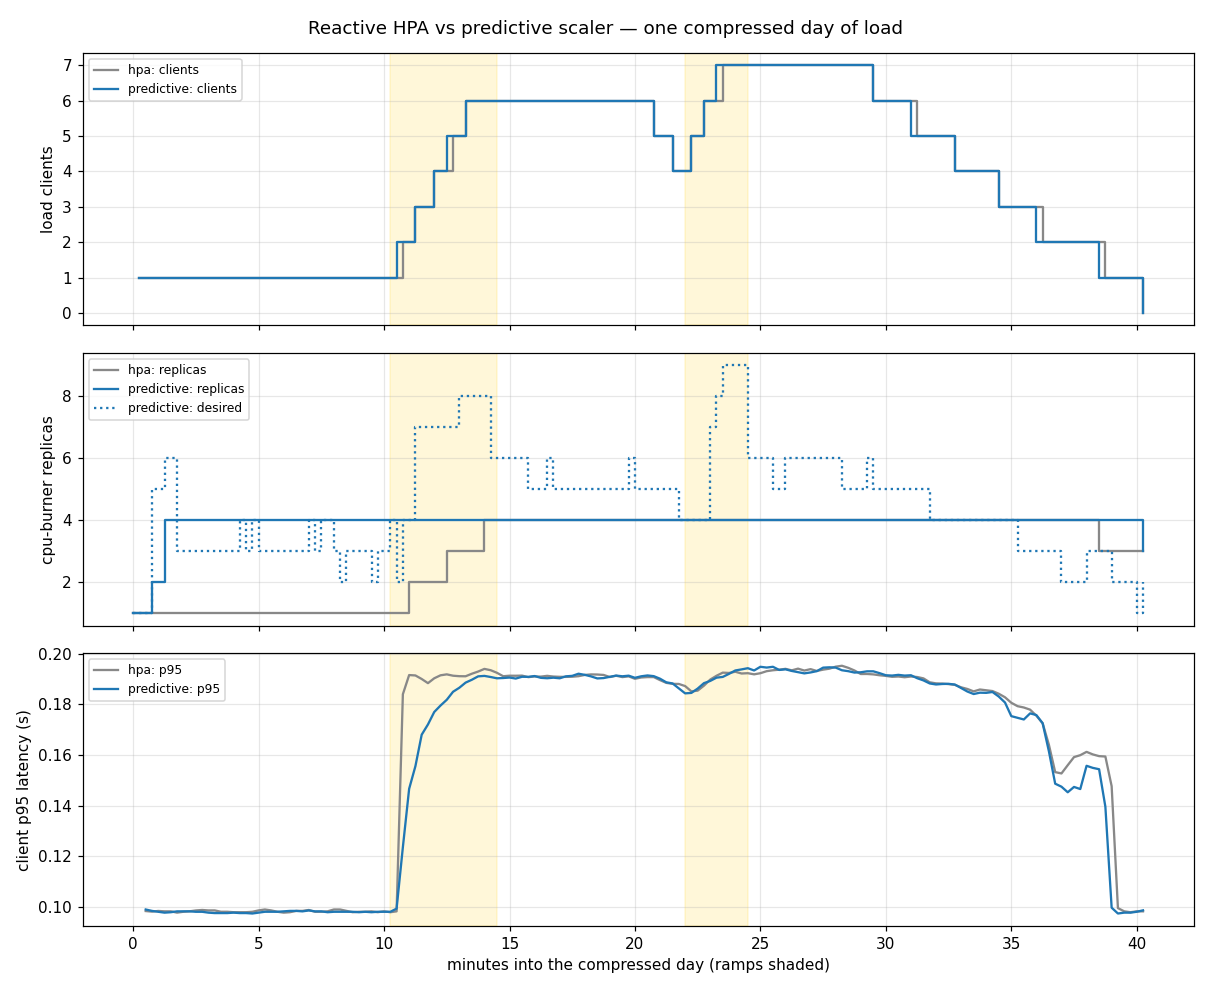
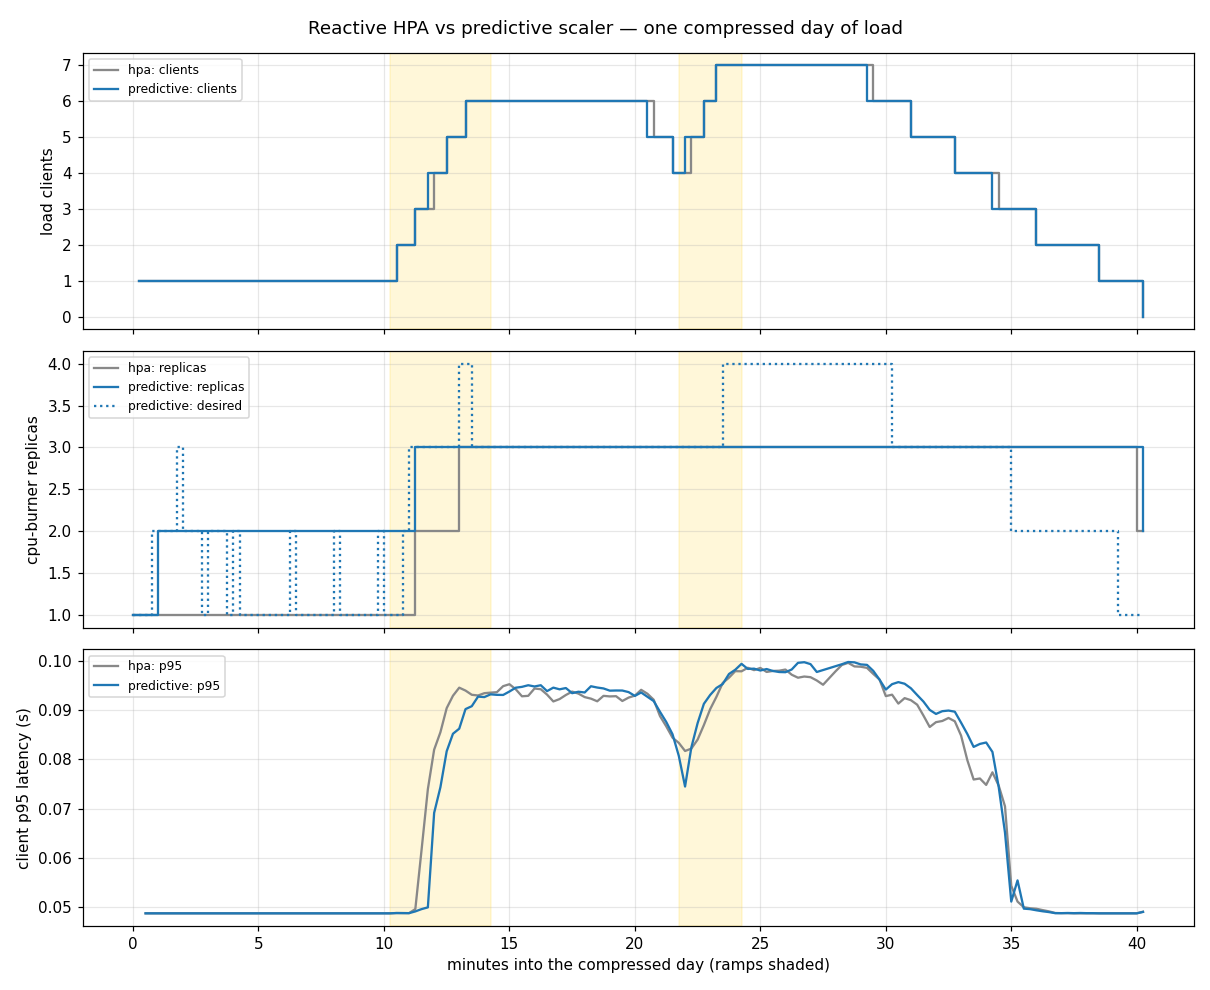
bench: results from 1795d9d (2026-10-28)

diff --git a/docs/benchmark.md b/docs/benchmark.md
@@ -1,27 +1,31 @@
 # Benchmark: predictive scaler vs reactive HPA
 
-_Generated by `bench/report.py` from a run of `.github/workflows/benchmark.yml` (commit `27b0f28`, 2026-10-28); do not edit by hand. How it is measured: [bench/README.md](../bench/README.md)._
+_Generated by `bench/report.py` from a run of `.github/workflows/benchmark.yml` (commit `7159ad6`, 2026-10-28); do not edit by hand. How it is measured: [bench/README.md](../bench/README.md)._
 
-Same kind cluster, same cpu-burner workload (500m CPU per replica, up to 6 replicas), same compressed day of load (40 min per run): quiet night, sharp ramp at 06:00, lunch dip, second ramp at 13:00, evening decline. Run A scales with a plain CPU HPA at 70%; run B with the KEDA predictive scaler (`mode=max`, `forecastAggregation=max`, target 0.35 cores per replica, 30 s step) on a model trained on the warm-up days of the same pattern.
+Same kind cluster, same cpu-burner workload (500m CPU per replica, up to 4 replicas), same compressed day of load (40 min per run): quiet night, sharp ramp at 06:00, lunch dip, second ramp at 13:00, evening decline. Run A scales with a plain CPU HPA at 70%; run B with the KEDA predictive scaler (`mode=max`, `forecastAggregation=max`, target 0.35 cores per replica, 30 s step) on a model trained on the warm-up days of the same pattern.
 
 | Metric | A: reactive HPA | B: predictive | B vs A |
 |---|---|---|---|
-| p95 latency during ramps (mean of 1-min p95) | 184 ms | 176 ms | (−4% better) |
-| p95 latency during ramps (worst minute) | 194 ms | 194 ms | (+0% worse) |
-| p95 latency over the day (mean of 1-min p95) | 161 ms | 159 ms | (−2% better) |
+| p95 latency during ramps (mean of 1-min p95) | 82 ms | 78 ms | (−5% better) |
+| p95 latency during ramps (worst minute) | 99 ms | 99 ms | (+1% worse) |
+| p95 latency over the day (mean of 1-min p95) | 74 ms | 74 ms | (+0% worse) |
 | Requests slower than 500 ms | 0.00% | 0.00% | |
-| Client errors (timeouts) | 0 of 48992.91 | 0 of 49776.46 | |
-| Replica-minutes | 122.50 | 158.50 | (+29% worse) |
-| Peak replicas | 4 | 4 | |
-| Ramp 1 (06.0h): time to first scale-up | 45 s | n/a | |
-| Ramp 2 (13.0h): time to first scale-up | n/a | n/a | |
-| Scaler decisions from forecast / observed (run B) | — | 154 / n/a | |
-| Forecast rolling MAE, step 1, end of run B (model units) | — | 0.023 | |
+| Client errors (timeouts) | 0 of 67603 | 0 of 67031 | |
+| Replica-minutes | 96.75 | 109 | (+13% worse) |
+| Peak replicas | 3 | 3 | |
+| Ramp 1 (06:00): replicas running at its start | 1 | 2 | |
+| Ramp 1 (06:00): time to 3 replicas | 165 s | 60 s | (−64% better) |
+| Ramp 1 (06:00): p95 latency (mean of 1-min p95) | 77 ms | 71 ms | (−8% better) |
+| Ramp 2 (13:00): replicas running at its start | 3 | 3 | |
+| Ramp 2 (13:00): time to 3 replicas | 0 s | 0 s | |
+| Ramp 2 (13:00): p95 latency (mean of 1-min p95) | 91 ms | 90 ms | (−1% better) |
+| Scaler decisions from forecast / observed (run B) | — | 156 / 0 | |
+| Forecast rolling MAE, step 1, end of run B (model units) | — | 0.009 | |
 
 ![load, replicas and p95 latency for both runs](benchmark/benchmark.png)
 
 ## Reading the numbers
 
-- *Time to first scale-up* is measured from the moment the simulated clock enters the ramp to the first increase in running cpu-burner pods. The HPA reacts to CPU already above target; the predictive scaler reports `max(forecast, observed)`, so it can only be earlier when the model's forecast rises before the observed demand does.
+- *Time to N replicas* runs from the moment the simulated clock enters the ramp until N cpu-burner pods are running, where N is the smaller of the two runs' peaks inside the ramp (0 s: already there). The HPA reacts to CPU already above target; the predictive scaler reports `max(forecast, observed)`, so it can only be earlier when the forecast rises before the observed demand does, or when it never scaled down.
 - *Replica-minutes* are the cost side: a scaler that is early but over-provisions pays here.
 - Both runs share one small node (the CI runner), so absolute latencies are noisy; the comparison between runs is the point, and it is one sample. The weekly run keeps the history in the workflow artifacts.
